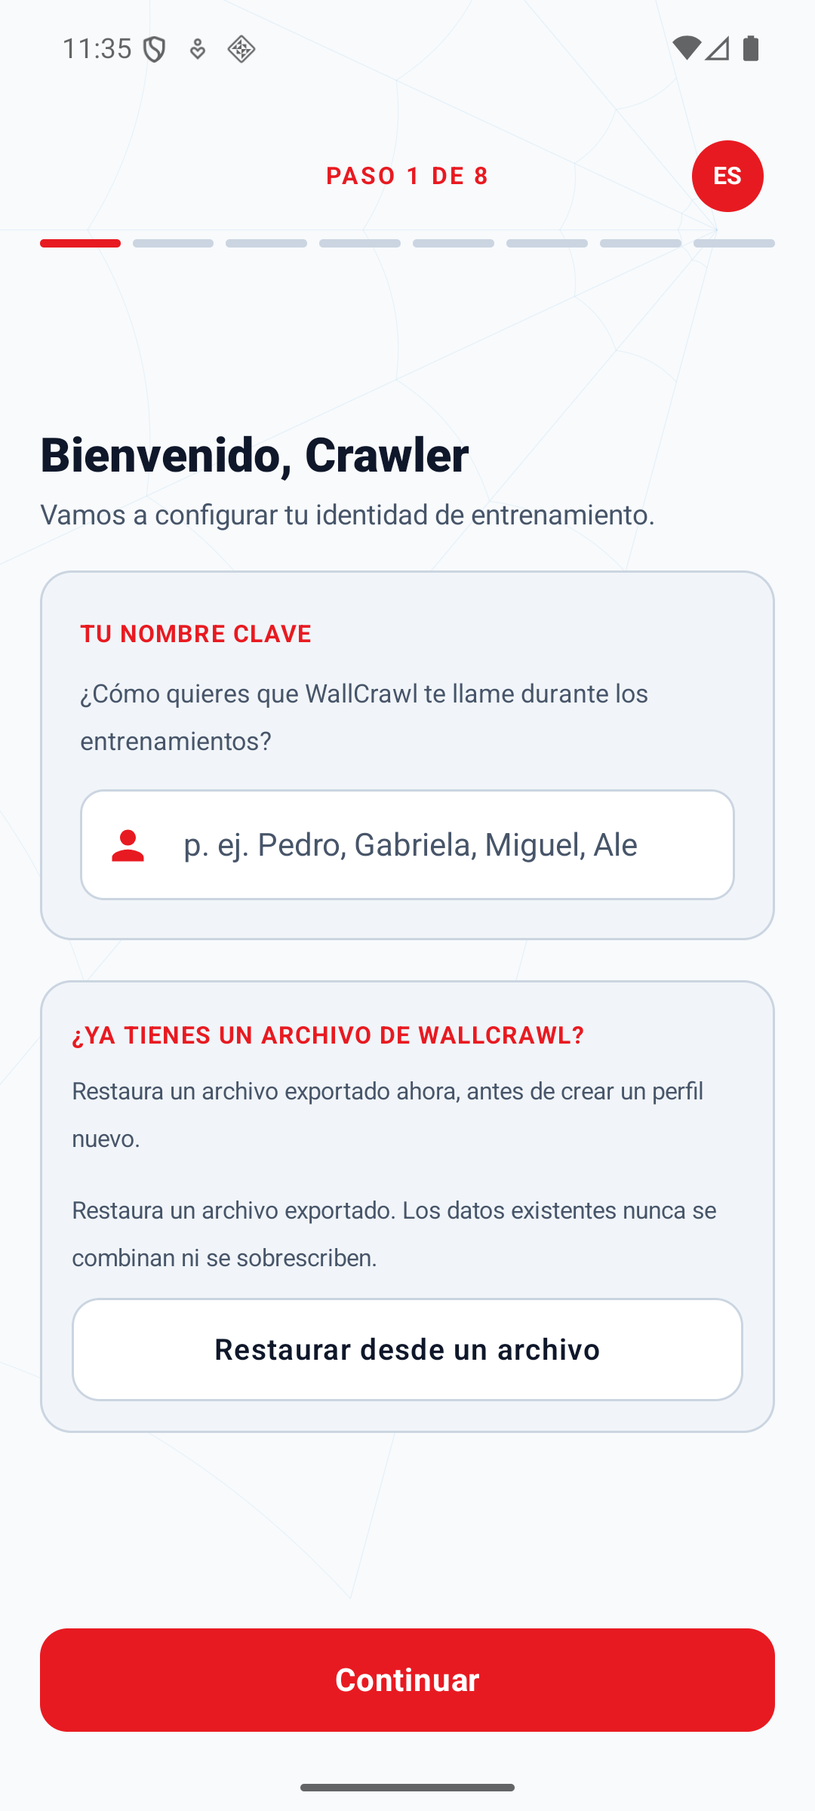
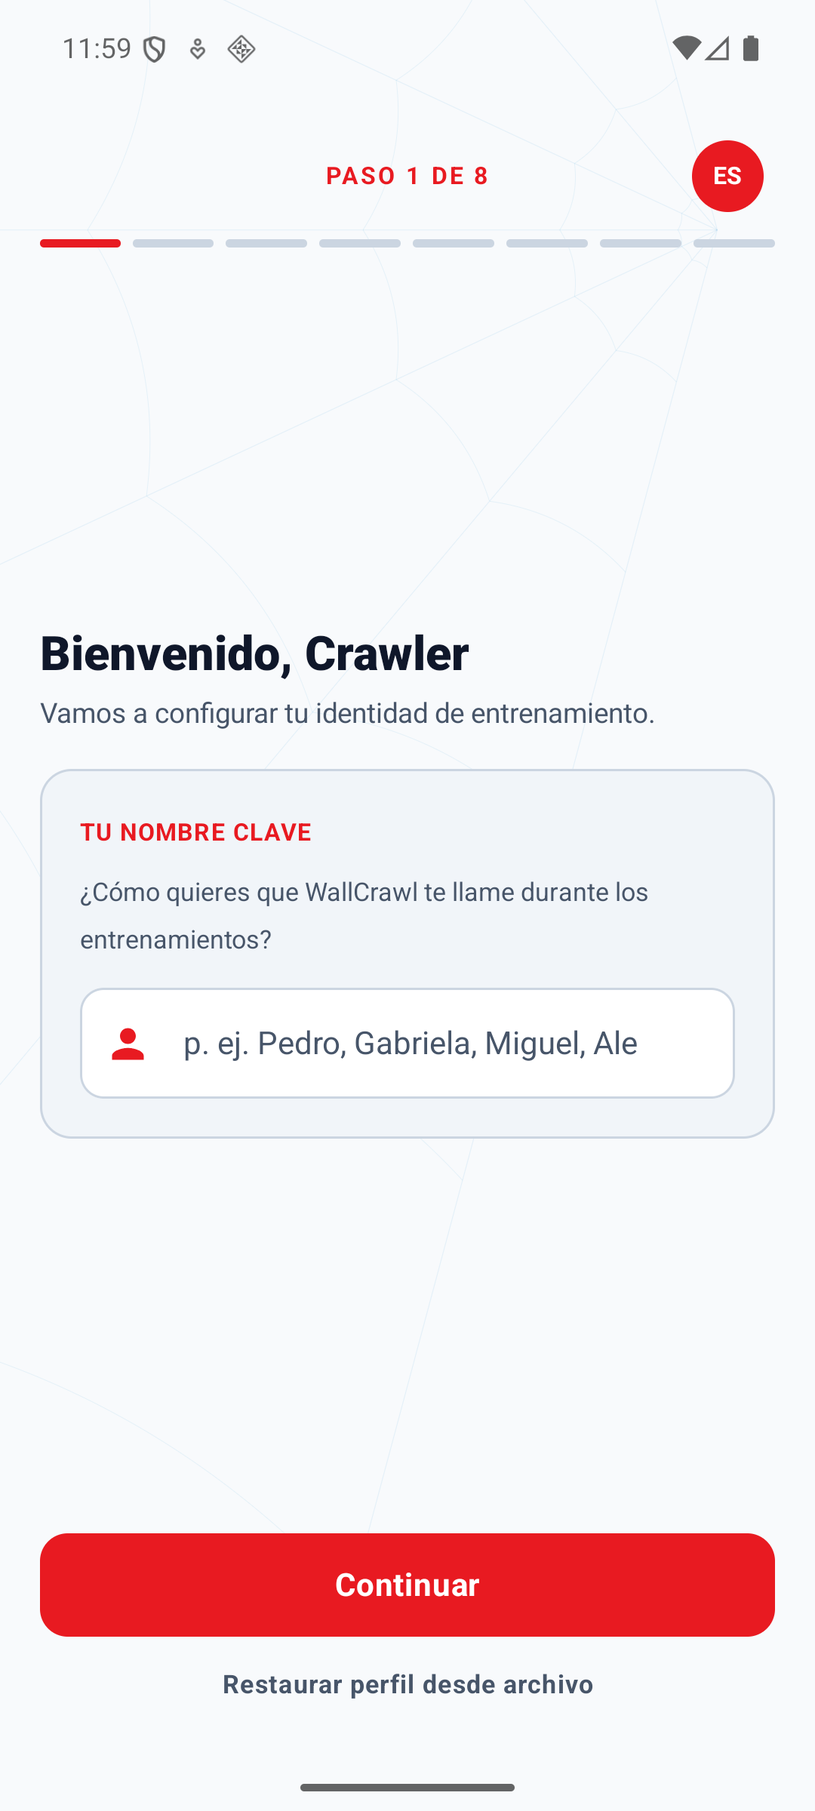
feat: move onboarding restore behind a quiet button and a sheet
The Welcome step opened with a full card of restore instructions beside the name
field — a whole panel about a file most people setting up do not have. The card
is gone. Under the Continue button there is now a plain text line, "Restore
profile from file", and the entire flow — instructions, eligibility, the picker,
progress and errors — opens in a modal sheet behind it.

Nothing about restoring itself changed. The same LocalDataViewModel, the same
document picker, the same validation and the same transaction. In particular:

- LocalDataOutcomeEffect still lives in the navigation graph, outside the sheet,
  so dismissing the sheet or Compose disposing its content cannot lose a restore
  that finishes late.
- isRestoreInFlight still disables Continue, so the wizard cannot write a profile
  over one a restore is about to commit.
- While a restore is running the entry line says so and refuses to open a second
  one, which is also what keeps a running restore visible once the sheet is
  closed.
- Opening or dismissing the sheet saves nothing and advances nothing; cancelling
  the picker leaves the draft and the stored data exactly as they were.

The entry reads "profile" because that is what someone setting up is looking for,
but the archive is still the whole archive, so the sheet says what is actually
restored: profile, routines, and every logged workout. The old
onboarding_restore_description said "restores an exported file" immediately above
[…]

diff --git a/app/src/main/java/wallcrawl/elopenmike/com/feature/backup/LocalDataControls.kt b/app/src/main/java/wallcrawl/elopenmike/com/feature/backup/LocalDataControls.kt
@@ -3,20 +3,29 @@ package wallcrawl.elopenmike.com.feature.backup
 import androidx.activity.compose.rememberLauncherForActivityResult
 import androidx.activity.result.contract.ActivityResultContracts
 import androidx.compose.foundation.layout.Arrangement
+import androidx.compose.foundation.layout.Column
 import androidx.compose.foundation.layout.Row
 import androidx.compose.foundation.layout.Spacer
 import androidx.compose.foundation.layout.fillMaxWidth
 import androidx.compose.foundation.layout.height
+import androidx.compose.foundation.layout.heightIn
+import androidx.compose.foundation.layout.navigationBarsPadding
+import androidx.compose.foundation.layout.padding
 import androidx.compose.foundation.layout.size
 import androidx.compose.material3.AlertDialog
 import androidx.compose.material3.CircularProgressIndicator
+import androidx.compose.material3.ExperimentalMaterial3Api
 import androidx.compose.material3.MaterialTheme
+import androidx.compose.material3.ModalBottomSheet
 import androidx.compose.material3.Text
 import androidx.compose.material3.TextButton
 import androidx.compose.runtime.Composable
 import androidx.compose.runtime.LaunchedEffect
 import androidx.compose.runtime.collectAsState
 import androidx.compose.runtime.getValue
+import androidx.compose.runtime.mutableStateOf
+import androidx.compose.runtime.saveable.rememberSaveable
+import androidx.compose.runtime.setValue
 import androidx.compose.ui.Alignment
 import androidx.compose.ui.Modifier
 import androidx.compose.ui.platform.LocalConfiguration
@@ -27,6 +36,7 @@ import androidx.compose.ui.semantics.LiveRegionMode
 import androidx.compose.ui.semantics.liveRegion
 import androidx.compose.ui.semantics.semantics
 import androidx.compose.ui.text.font.FontWeight
+import androidx.compose.ui.text.style.TextAlign
 import androidx.compose.ui.unit.dp
 import androidx.compose.ui.unit.sp
 import wallcrawl.elopenmike.com.R
@@ -38,6 +48,8 @@ import wallcrawl.elopenmike.com.core.ui.theme.CrimsonRedPrimary
 
 const val LOCAL_DATA_EXPORT_TEST_TAG = "local_data_export"
 const val LOCAL_DATA_RESTORE_TEST_TAG = "local_data_restore"
+const val LOCAL_DATA_RESTORE_ENTRY_TEST_TAG = "local_data_restore_entry"
+const val LOCAL_DATA_RESTORE_SHEET_TEST_TAG = "local_data_restore_sheet"
 const val LOCAL_DATA_DELETE_TEST_TAG = "local_data_delete"
 const val LOCAL_DATA_MESSAGE_TEST_TAG = "local_data_message"
 const val LOCAL_DATA_DELETE_CONFIRM_TEST_TAG = "local_data_delete_confirm"
@@ -98,8 +110,8 @@ fun LocalDataSection(
 /**
  * Reports a finished restore or deletion, from somewhere that stays composed.
  *
- * Deliberately not inside the cards below. [RestoreFromArchiveCard] exists only on
- * onboarding's first step, and [LocalDataSection] is one item in a scrolling list that
+ * Deliberately not inside the controls below. [RestoreFromArchiveButton] opens a sheet
+ * that exists only while it is open, and [LocalDataSection] is one item in a scrolling list that
  * Compose disposes once it leaves the viewport — either way an effect living with the card
  * can be gone when the operation it was watching finishes. Host screens place this above
  * the step switch and above the list, where it outlives both.
@@ -126,23 +138,74 @@ fun LocalDataOutcomeEffect(
  * Restore on its own, for the first onboarding step.
  *
  * A user who has just reinstalled, or who has just deleted everything, can restore before
- * being asked to build a profile they would immediately discard. Completion is reported by
- * [LocalDataOutcomeEffect], not by this card, so leaving the step cannot lose the result.
+ * being asked to build a profile they would immediately discard — so this has to be
+ * reachable with the wizard untouched and no name typed. It is a quiet text button because
+ * most people setting up are not restoring, and the whole flow lives in a sheet behind it
+ * rather than competing with the name field for the first screen.
+ *
+ * Completion is reported by [LocalDataOutcomeEffect], not from inside the sheet, so
+ * dismissing the sheet — or Compose disposing its content — cannot lose a finished restore.
+ * While one is running the button says so and refuses to open a second entry, which is also
+ * what keeps a running restore visible after the sheet is closed.
  */
+@OptIn(ExperimentalMaterial3Api::class)
 @Composable
-fun RestoreFromArchiveCard(
+fun RestoreFromArchiveButton(
     viewModel: LocalDataViewModel,
     modifier: Modifier = Modifier
 ) {
     val state by viewModel.uiState.collectAsState()
+    var sheetOpen by rememberSaveable { mutableStateOf(false) }
+    val restoring = state.operation == LocalDataOperation.RESTORING
 
-    WallCrawlCard(modifier = modifier.fillMaxWidth(), cornerRadius = 16.dp, contentPadding = 16.dp) {
-        SectionHeading(stringResource(R.string.onboarding_restore_title))
-        Spacer(modifier = Modifier.height(4.dp))
-        BodyText(stringResource(R.string.onboarding_restore_description))
-        Spacer(modifier = Modifier.height(12.dp))
-        RestoreControl(viewModel = viewModel, state = state)
-        LocalDataMessageText(state)
+    TextButton(
+        onClick = { sheetOpen = true },
+        enabled = !state.isBusy,
+        modifier = modifier
+            .fillMaxWidth()
+            .heightIn(min = 48.dp)
+            .testTag(LOCAL_DATA_RESTORE_ENTRY_TEST_TAG)
+    ) {
+        Text(
+            text = stringResource(
+                if (restoring) {
+                    R.string.local_data_restore_progress
+                } else {
+                    R.string.onboarding_restore_action
+                }
+            ),
+            fontSize = 13.sp,
+            textAlign = TextAlign.Center,
+            color = MaterialTheme.colorScheme.onSurfaceVariant
+        )
+    }
+
+    if (sheetOpen) {
+        ModalBottomSheet(
+            onDismissRequest = { sheetOpen = false },
+            containerColor = MaterialTheme.colorScheme.background,
+            modifier = Modifier.testTag(LOCAL_DATA_RESTORE_SHEET_TEST_TAG)
+        ) {
+            Column(
+                modifier = Modifier
+                    .fillMaxWidth()
+                    .padding(horizontal = 20.dp)
+                    .padding(bottom = 24.dp)
+                    .navigationBarsPadding()
+            ) {
+                SectionHeading(stringResource(R.string.onboarding_restore_title))
+                Spacer(modifier = Modifier.height(4.dp))
+                // The button that opens this says "profile", because that is what someone
+                // setting up is looking for. What actually gets restored is the whole
+                // archive, and this is where that is stated rather than implied. The
+                // eligibility line below carries the rest; a second "restores an exported
+                // file" sentence here only repeated it.
+                BodyText(stringResource(R.string.onboarding_restore_scope))
+                Spacer(modifier = Modifier.height(12.dp))
+                RestoreControl(viewModel = viewModel, state = state)
+                LocalDataMessageText(state)
+            }
+        }
     }
 }
 

diff --git a/app/src/androidTest/java/wallcrawl/elopenmike/com/feature/backup/LocalDataControlsTest.kt b/app/src/androidTest/java/wallcrawl/elopenmike/com/feature/backup/LocalDataControlsTest.kt
@@ -1,38 +1,44 @@
 package wallcrawl.elopenmike.com.feature.backup
 
 import android.content.Context
+import androidx.annotation.StringRes
 import androidx.compose.foundation.layout.Column
 import androidx.compose.foundation.rememberScrollState
 import androidx.compose.foundation.verticalScroll
 import androidx.compose.runtime.Composable
 import androidx.compose.runtime.CompositionLocalProvider
 import androidx.compose.ui.Modifier
-import androidx.compose.ui.platform.LocalDensity
 import androidx.compose.ui.graphics.Color
 import androidx.compose.ui.graphics.toPixelMap
+import androidx.compose.ui.platform.LocalDensity
 import androidx.compose.ui.test.SemanticsNodeInteraction
 import androidx.compose.ui.test.assertHasClickAction
-import androidx.compose.ui.test.captureToImage
+import androidx.compose.ui.test.assertHeightIsAtLeast
 import androidx.compose.ui.test.assertIsDisplayed
 import androidx.compose.ui.test.assertIsEnabled
 import androidx.compose.ui.test.assertIsNotEnabled
+import androidx.compose.ui.test.captureToImage
 import androidx.compose.ui.test.junit4.createComposeRule
 import androidx.compose.ui.test.onNodeWithTag
 import androidx.compose.ui.test.onNodeWithText
 import androidx.compose.ui.test.performClick
 import androidx.compose.ui.test.performScrollTo
 import androidx.compose.ui.unit.Density
+import androidx.compose.ui.unit.dp
 import androidx.test.core.app.ApplicationProvider
 import com.google.common.truth.Truth.assertThat
 import java.io.InputStream
 import java.io.OutputStream
 import org.junit.Rule
 import org.junit.Test
+import wallcrawl.elopenmike.com.R
 import wallcrawl.elopenmike.com.core.database.repository.LocalDataBackupRepository
 import wallcrawl.elopenmike.com.core.database.repository.LocalDataExportResult
 import wallcrawl.elopenmike.com.core.database.repository.LocalDataRestoreResult
 import wallcrawl.elopenmike.com.core.model.ThemePreference
 import wallcrawl.elopenmike.com.core.ui.theme.WallCrawlTheme
+import wallcrawl.elopenmike.com.feature.backup.LOCAL_DATA_RESTORE_ENTRY_TEST_TAG
+import wallcrawl.elopenmike.com.feature.backup.LocalDataOperation
 
 /**
  * The destructive path and the accessibility surface of the local-data controls.
@@ -182,22 +188,77 @@ class LocalDataControlsTest {
     }
 
     @Test
-    fun onboardingCard_offersRestoreWithoutTheDestructiveControls() {
-        val viewModel = LocalDataViewModel(
-            context.contentResolver,
-            FakeBackupRepository(restoreAllowed = true)
-        )
-        composeRule.setContent {
-            ScrollableTestScreen {
-                RestoreFromArchiveCard(viewModel = viewModel)
-            }
-        }
-        composeRule.waitUntil(TIMEOUT_MILLIS) { viewModel.uiState.value.restoreAllowed != null }
+    fun onboardingEntry_keepsTheRestoreFlowBehindAQuietButton() {
+        // Onboarding's first screen belongs to the name field. The restore flow is a whole
+        // panel of instructions, eligibility text and errors, so it lives in a sheet and
+        // only its one-line entry sits on the screen.
+        val viewModel = showOnboardingEntry(FakeBackupRepository(restoreAllowed = true))
+
+        composeRule.onNodeWithTag(LOCAL_DATA_RESTORE_TEST_TAG).assertDoesNotExist()
+        composeRule.onNodeWithText(text(R.string.onboarding_restore_action)).assertIsDisplayed()
+
+        composeRule.onNodeWithTag(LOCAL_DATA_RESTORE_ENTRY_TEST_TAG)
+            .assertIsEnabled()
+            .assertHeightIsAtLeast(48.dp)
+            .performClick()
+        composeRule.waitForIdle()
+
+        composeRule.onNodeWithTag(LOCAL_DATA_RESTORE_TEST_TAG).assertIsEnabled()
+        // Opening the flow is not starting it: nothing has been written or picked yet.
+        assertThat(viewModel.uiState.value.operation).isEqualTo(LocalDataOperation.IDLE)
+    }
+
+    @Test
+    fun onboardingSheet_saysWhatIsActuallyRestored() {
+        // The entry says "profile" because that is what someone setting up is looking for.
+        // Restoring still replaces the whole archive, and the sheet is where that is said.
+        showOnboardingEntry(FakeBackupRepository(restoreAllowed = true))
+
+        composeRule.onNodeWithTag(LOCAL_DATA_RESTORE_ENTRY_TEST_TAG).performClick()
+        composeRule.waitForIdle()
+
+        composeRule.onNodeWithText(text(R.string.onboarding_restore_scope)).assertIsDisplayed()
+    }
+
+    @Test
+    fun onboardingEntry_offersRestoreWithoutTheDestructiveControls() {
+        showOnboardingEntry(FakeBackupRepository(restoreAllowed = true))
+
+        composeRule.onNodeWithTag(LOCAL_DATA_RESTORE_ENTRY_TEST_TAG).performClick()
+        composeRule.waitForIdle()
 
         composeRule.onNodeWithTag(LOCAL_DATA_RESTORE_TEST_TAG).assertIsEnabled()
         composeRule.onNodeWithTag(LOCAL_DATA_DELETE_TEST_TAG).assertDoesNotExist()
         composeRule.onNodeWithTag(LOCAL_DATA_EXPORT_TEST_TAG).assertDoesNotExist()
     }
+
+    @Test
+    fun onboardingEntry_staysReachableBeforeAnythingIsTypedAndSaysWhenBlocked() {
+        // A fresh install has to reach this with the wizard untouched; an app that already
+        // holds data has to be told why it cannot restore.
+        showOnboardingEntry(FakeBackupRepository(restoreAllowed = false))
+
+        composeRule.onNodeWithTag(LOCAL_DATA_RESTORE_ENTRY_TEST_TAG)
+            .assertIsEnabled()
+            .performClick()
+        composeRule.waitForIdle()
+
+        composeRule.onNodeWithText(text(R.string.local_data_restore_blocked)).assertIsDisplayed()
+        composeRule.onNodeWithTag(LOCAL_DATA_RESTORE_TEST_TAG).assertIsNotEnabled()
+    }
+
+    private fun showOnboardingEntry(repository: FakeBackupRepository): LocalDataViewModel {
+        val viewModel = LocalDataViewModel(context.contentResolver, repository)
+        composeRule.setContent {
+            ScrollableTestScreen {
+                RestoreFromArchiveButton(viewModel = viewModel)
+            }
+        }
+        composeRule.waitUntil(TIMEOUT_MILLIS) { viewModel.uiState.value.restoreAllowed != null }
+        return viewModel
+    }
+
+    private fun text(@StringRes id: Int): String = context.getString(id)
 
     private fun showSection(
         repository: FakeBackupRepository,

diff --git a/app/src/main/java/wallcrawl/elopenmike/com/feature/onboarding/OnboardingScreen.kt b/app/src/main/java/wallcrawl/elopenmike/com/feature/onboarding/OnboardingScreen.kt
@@ -21,6 +21,8 @@ import androidx.compose.foundation.layout.Spacer
 import androidx.compose.foundation.layout.fillMaxSize
 import androidx.compose.foundation.layout.fillMaxWidth
 import androidx.compose.foundation.layout.height
+import androidx.compose.foundation.layout.imePadding
+import androidx.compose.foundation.layout.navigationBarsPadding
 import androidx.compose.foundation.layout.padding
 import androidx.compose.foundation.layout.size
 import androidx.compose.foundation.layout.width
@@ -105,10 +107,12 @@ fun OnboardingScreen(
     onCompleted: () -> Unit,
     modifier: Modifier = Modifier,
     /**
-     * Restore control offered on the first step, supplied by the navigation graph.
+     * Restore entry point offered under the first step's primary action, supplied by the
+     * navigation graph.
      *
      * It sits here so a fresh install, or an install that has just deleted everything, can
      * restore an exported file without first being made to build a profile it would discard.
+     * Opening it neither saves a profile nor advances the wizard, so the draft survives.
      */
     restoreFromArchive: @Composable () -> Unit = {},
     /**
@@ -135,6 +139,10 @@ fun OnboardingScreen(
         Column(
             modifier = Modifier
                 .fillMaxSize()
+                // The actions sit at the bottom of this column, so it has to end above the
+                // navigation bar and above the keyboard rather than behind either.
+                .navigationBarsPadding()
+                .imePadding()
                 .padding(horizontal = 20.dp, vertical = 16.dp)
         ) {
             // Wizard Header & Progress Bar
@@ -192,11 +200,8 @@ fun OnboardingScreen(
                             Spacer(modifier = Modifier.height(16.dp))
 
                             when (step) {
-                                OnboardingStep.WELCOME -> {
+                                OnboardingStep.WELCOME ->
                                     WelcomeStep(state = state, viewModel = viewModel)
-                                    Spacer(modifier = Modifier.height(20.dp))
-                                    restoreFromArchive()
-                                }
                                 OnboardingStep.GOALS -> GoalsStep(state = state, viewModel = viewModel)
                                 OnboardingStep.EXPERIENCE_UNIT -> ExperienceAndUnitStep(state = state, viewModel = viewModel)
                                 OnboardingStep.MOVEMENT_CAPABILITY -> MovementCapabilityStep(
@@ -232,6 +237,13 @@ fun OnboardingScreen(
                 onBack = { viewModel.previousStep() },
                 onNext = { viewModel.nextStep() }
             )
+
+            // Under the primary action, and only on the first step: someone who has an
+            // archive is restoring instead of filling the wizard in, and everyone else
+            // should be reading the name field rather than this.
+            if (state.currentStep == OnboardingStep.WELCOME) {
+                restoreFromArchive()
+            }
         }
     }
 }

diff --git a/app/src/main/java/wallcrawl/elopenmike/com/app/WallCrawlApp.kt b/app/src/main/java/wallcrawl/elopenmike/com/app/WallCrawlApp.kt
@@ -39,7 +39,7 @@ import wallcrawl.elopenmike.com.core.ui.theme.CrimsonRedPrimary
 import wallcrawl.elopenmike.com.feature.backup.LocalDataOutcomeEffect
 import wallcrawl.elopenmike.com.feature.backup.LocalDataSection
 import wallcrawl.elopenmike.com.feature.backup.LocalDataViewModel
-import wallcrawl.elopenmike.com.feature.backup.RestoreFromArchiveCard
+import wallcrawl.elopenmike.com.feature.backup.RestoreFromArchiveButton
 import wallcrawl.elopenmike.com.feature.credits.CreditsScreen
 import wallcrawl.elopenmike.com.feature.credits.CreditsViewModel
 import wallcrawl.elopenmike.com.feature.exercises.ExercisesScreen
@@ -206,7 +206,7 @@ private fun WallCrawlAppContent(
                         }
                     },
                     restoreFromArchive = {
-                        RestoreFromArchiveCard(viewModel = localDataViewModel)
+                        RestoreFromArchiveButton(viewModel = localDataViewModel)
                     },
                     isRestoreInFlight = localDataState.isBusy
                 )

diff --git a/README.md b/README.md
@@ -44,7 +44,7 @@ WallCrawl supports **Dark Theme** (stealth suit graphite aesthetic), **Light The
 <p align="center">
   <img src="art/screenshots/profile-your-data.png" width="24%" alt="Your Data card on the Training Profile screen: export, restore, and delete-all controls, with restore explaining that it needs a fresh start" />
   <img src="art/screenshots/profile-delete-confirmation.png" width="24%" alt="Delete-all confirmation dialog naming the profile, templates, workouts including one in progress, and cached totals it removes, and what it leaves alone" />
-  <img src="art/screenshots/onboarding-restore-archive.png" width="24%" alt="First onboarding step offering Restore from a file before a new profile is created" />
+  <img src="art/screenshots/onboarding-restore-archive.png" width="24%" alt="The restore sheet opened from the first onboarding step, stating that the file holds the whole archive before a new profile is created" />
 </p>
 <p align="center">
   <em>Your Data on Training Profile &middot; the destructive confirmation &middot; restore offered on first run</em>
@@ -64,7 +64,7 @@ WallCrawl supports **Dark Theme** (stealth suit graphite aesthetic), **Light The
 - **Workout Summary**: Post-workout card displaying session duration, total volume lifted, sets completed, and personal records set against your logged history.
 - **Progress Tracking**: Weekly workout streaks, volume and rep totals, per-muscle weekly set counts, strength progression indicators, and historical workout logs.
 - **Training Profile & App Preferences**: Full local customization of app language (System default / English / Español) and theme preference (Auto System / Dark Mode / Light Mode) with compact switchers, multi-select fitness goals, preferred weight units (LBS/KG), session duration targets, available gym equipment, return-after-break calibration, muscle priorities, and seven movement preferences.
-- **Your Data**: Export everything stored on the device to one versioned, checksummed file you choose the destination for; restore it onto a fresh start; or delete every local record behind an explicit destructive confirmation. Restore is also offered on the first onboarding step, so a reinstall does not have to build a throwaway profile first.
+- **Your Data**: Export everything stored on the device to one versioned, checksummed file you choose the destination for; restore it onto a fresh start; or delete every local record behind an explicit destructive confirmation. Restore is also offered on the first onboarding step — a quiet button under Continue opens the whole flow in a sheet — so a reinstall does not have to build a throwaway profile first.
 - **Language**: English and neutral Latin American Spanish across the whole app, following the device by default, switchable from a chip in the onboarding wizard's header before any details are entered and from Training Profile → App preferences, and stored as a device setting rather than as part of the profile or the export archive.
 - **Credits & Licenses**: In-app attribution for the bundled exercise artwork, reachable from the Training Profile screen.
 
@@ -84,9 +84,9 @@ device setting: it is not part of the training profile, not in the export archiv
 restoring an archive never changes it.
 
 <p align="center">
-  <img src="art/screenshots/onboarding-welcome-language-es.png" width="24%" alt="Spanish onboarding step 1 of 8 with the language chip in the header reading ES, above the codename field, before any details are entered" />
+  <img src="art/screenshots/onboarding-welcome-language-es.png" width="24%" alt="Spanish onboarding step 1 of 8 with the language chip in the header reading ES, the codename field, and a quiet Restaurar perfil desde archivo button under Continuar" />
   <img src="art/screenshots/profile-language-es.png" width="24%" alt="Spanish Training Profile App preferences card holding the interface theme and language as two compact segmented controls, with ES selected" />
-  <img src="art/screenshots/onboarding-summary-es.png" width="24%" alt="Spanish onboarding step 8 of 8 summarising codename, goals, experience, frequency, units, equipment, movement preferences, and sensitive areas" />
+  <img src="art/screenshots/onboarding-restore-sheet-es.png" width="24%" alt="The Spanish restore sheet opened from the onboarding wizard, stating that the file holds the profile, routines, and every logged workout" />
   <img src="art/screenshots/today-screen-es.png" width="24%" alt="Spanish Today screen with a generated Empuje / Hipertrofia session, its focus muscles, and five Spanish exercise names" />
 </p>
 <p align="center">
@@ -96,7 +96,7 @@ restoring an archive never changes it.
   <img src="art/screenshots/profile-delete-confirmation-es.png" width="24%" alt="Spanish delete-all confirmation naming exactly what is removed, what is left alone, and that the language setting is not changed" />
 </p>
 <p align="center">
-  <em>Language in the wizard header and in App preferences &middot; onboarding and Today &middot; catalog and logging &middot; the data controls and their destructive confirmation</em>
+  <em>Language in the wizard header and in App preferences &middot; restoring during onboarding &middot; Today, the catalog, and logging &middot; the data controls and their destructive confirmation</em>
 </p>
 
 Language is presentation only. Identical inputs produce identical exercise selections,
